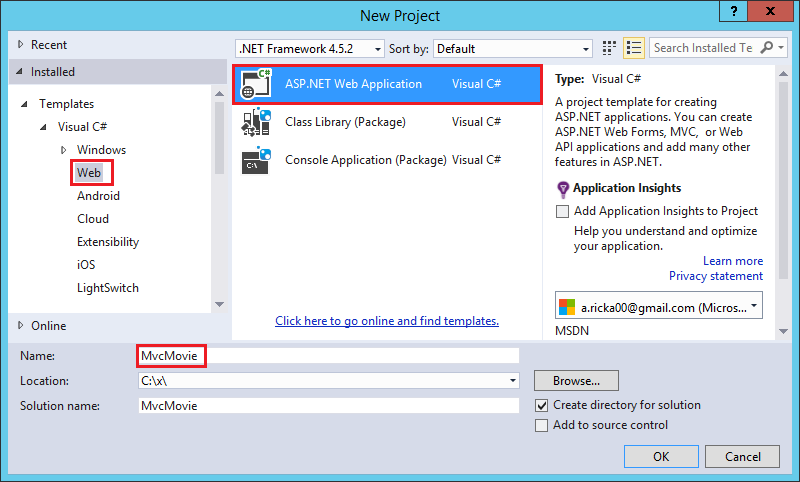
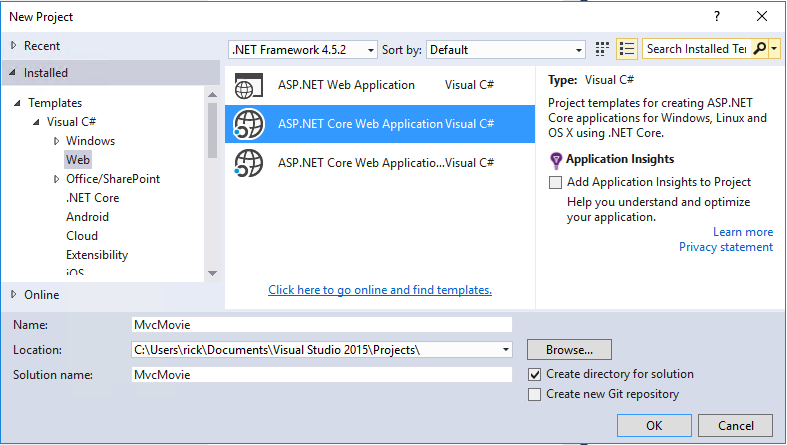
part 1

diff --git a/aspnet/tutorials/first-mvc-app/start-mvc.rst b/aspnet/tutorials/first-mvc-app/start-mvc.rst
@@ -13,12 +13,11 @@ Sections
 Install Visual Studio and ASP.NET
 --------------------------------------
 
-Visual Studio is an IDE (integrated development environment) for building apps. Similar to using Microsoft Word to write documents, you'll use Visual Studio to create web apps. 
+Visual Studio is an IDE (integrated development environment) for building apps. Similar to using Microsoft Word to write documents, you'll use Visual Studio to create web apps. Install :doc:`ASP.NET Core and Visual Studio 2015 </getting-started/installing-on-windows>`
 
-Install `ASP.NET 5 and Visual Studio 2015 <http://docs.asp.net/en/latest/getting-started/installing-on-windows.html>`__. 
 
 Create a web app
---------------------------------------
+------------------------------------
 
 From the Visual Studio **Start** page, tap **New Project**.
 
@@ -37,7 +36,9 @@ Complete the **New Project** dialog:
 
 .. image:: start-mvc/_static/new_project2.png
 
-In the **New ASP.NET Project - MvcMovie** dialog, tap **Web Application**, and then tap **OK**.
+In the **New ASP.NET Core Web Application - MvcMovie** dialog, tap **Web Application**, and then tap **OK**.
+
+:Warning: You must have the **Authentication** set to **Individual User Accounts** in this release for the scaffold to work.
 
 .. image:: start-mvc/_static/p3.png
 
